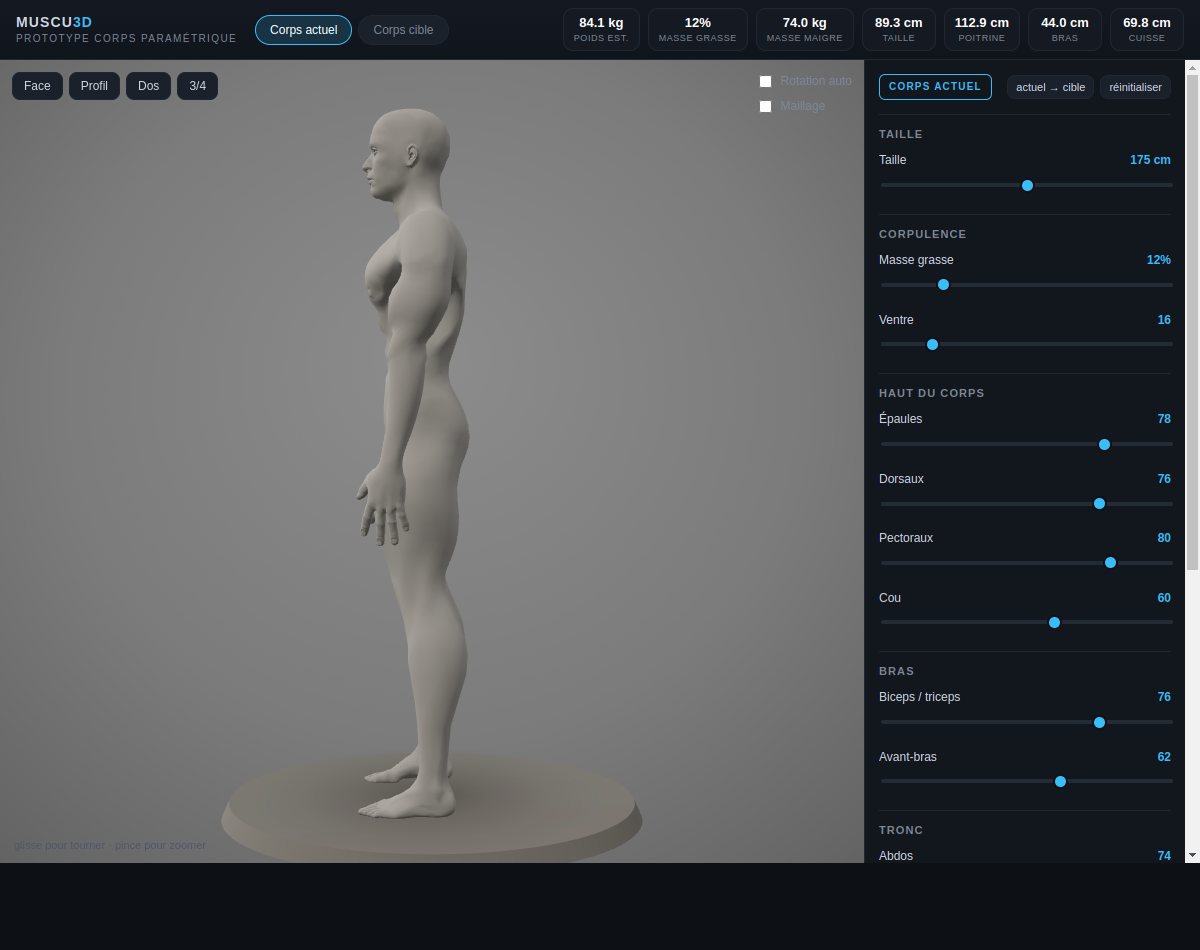
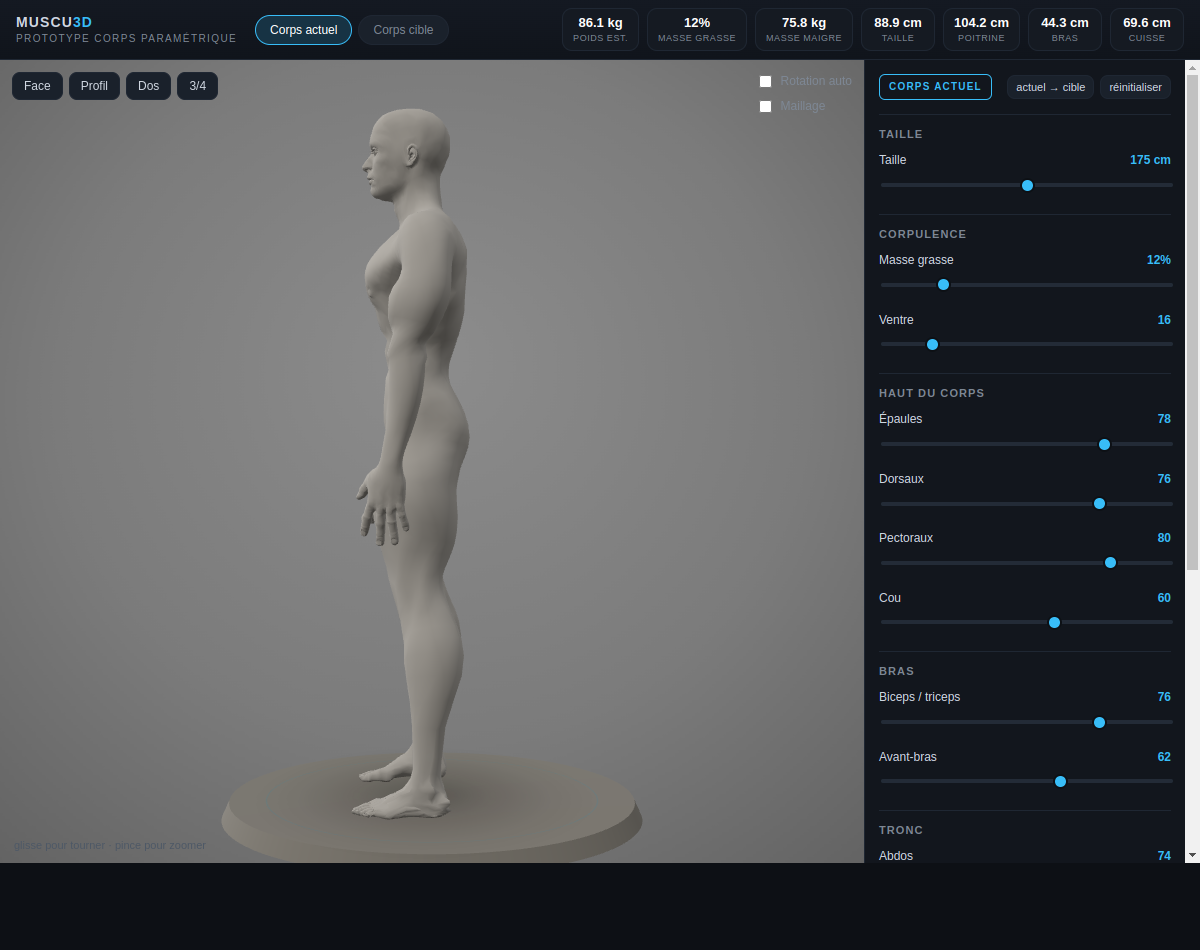
Corrige les aisselles dechirees : partage de peau par poids d'os + lissage des plis

diff --git a/src/lib/base/pose.ts b/src/lib/base/pose.ts
@@ -51,6 +51,24 @@ function rotationBetween(a: THREE.Vector3, b: THREE.Vector3): THREE.Quaternion {
   return new THREE.Quaternion().setFromUnitVectors(a.clone().normalize(), b.clone().normalize())
 }
 
+/** Poids de peau gaussien d'un os (même convention que lib/body.ts). */
+function boneWeight(p: THREE.Vector3, a: THREE.Vector3, b: THREE.Vector3, sigma: number): number {
+  const abx = b.x - a.x
+  const aby = b.y - a.y
+  const abz = b.z - a.z
+  const len2 = abx * abx + aby * aby + abz * abz
+  let t = 0
+  if (len2 > 1e-12) {
+    t = ((p.x - a.x) * abx + (p.y - a.y) * aby + (p.z - a.z) * abz) / len2
+    t = Math.max(0, Math.min(1, t))
+  }
+  const dx = p.x - (a.x + abx * t)
+  const dy = p.y - (a.y + aby * t)
+  const dz = p.z - (a.z + abz * t)
+  const d = Math.sqrt(dx * dx + dy * dy + dz * dz) / sigma
+  return Math.exp(-d * d)
+}
+
 /** Applique une rotation autour d'un pivot à des positions brutes. */
 function rotatePoints(positions: Float32Array, q: THREE.Quaternion, pivot: THREE.Vector3, weightOf: (i: number) => number) {
   const v = new THREE.Vector3()
@@ -107,7 +125,6 @@ function solvePose(positions: Float32Array, jointsIn: Record<string, THREE.Vecto
   if (strength <= 0) return joints
 
   const src = new Float32Array(positions)
-  const sideSign = (side: 'l' | 'r') => (side === 'l' ? 1 : -1)
 
   /**
    * Les cibles MakeHuman déplacent les sommets AVANT la pose : l'axe du bras
@@ -134,6 +151,24 @@ function solvePose(positions: Float32Array, jointsIn: Record<string, THREE.Vecto
     }
     return new THREE.Vector3(src[bi], src[bi + 1], src[bi + 2])
   }
+
+  const sideSign = (side: 'l' | 'r') => (side === 'l' ? 1 : -1)
+  // poids de transition (aisselle, entre-jambes) : ces sommets sont
+  // comprimés par la déformation, on les lissera à la fin
+  const transition = new Float32Array(positions.length / 3)
+
+  /**
+   * Os du torse (repères pris sur la géométrie morphée) : ils servent à
+   * partager la peau entre le bras et le tronc. Sans ce partage, l'aisselle
+   * se déchire : les sommets du bras partaient à 100 % avec le bras pendant
+   * que ceux du torse restaient en place.
+   */
+  const spine1 = nearestOf('spine-1')
+  const spine2 = nearestOf('spine-2')
+  const spine3 = nearestOf('spine-3')
+  const spine4 = nearestOf('spine-4')
+  const pelvisJ = nearestOf('pelvis')
+  const neckJ = nearestOf('neck')
 
   for (const side of ['l', 'r'] as const) {
     const s = sideSign(side)
@@ -167,6 +202,23 @@ function solvePose(positions: Float32Array, jointsIn: Record<string, THREE.Vecto
     }
     const pathRest = makePath([shoulder, elbow0, hand0])
     const pathTarget = makePath([shoulder, elbow2, hand2])
+
+    // Os : bras d'un côté, torse de l'autre. Le poids d'un sommet pour le bras
+    // est la part du bras dans le total (bras + torse) : l'aisselle, qui est
+    // à égale distance des deux, est ainsi entraînée à moitié et ne se
+    // déchire plus.
+    const armBones: Array<[THREE.Vector3, THREE.Vector3, number]> = [
+      [shoulder, elbow0, 0.034],
+      [elbow0, hand0, 0.032],
+      [hand0, hand0.clone().addScaledVector(foreOut, 0.1), 0.028],
+    ]
+    const torsoBones: Array<[THREE.Vector3, THREE.Vector3, number]> = [
+      [spine1, neckJ, 0.085],
+      [spine2, spine1, 0.08],
+      [spine3, spine2, 0.08],
+      [spine4, spine3, 0.075],
+      [pelvisJ, spine4, 0.075],
+    ]
 
     /** Point sur la polyligne à l'abscisse curviligne s. */
     const pathPoint = (path: ReturnType<typeof makePath>, s: number) => {
@@ -243,6 +295,11 @@ function solvePose(positions: Float32Array, jointsIn: Record<string, THREE.Vecto
       const rp = pathPoint(pathRest, sc)
       const tp = pathPoint(pathTarget, sc)
       q.setFromUnitVectors(pathTangent(pathRest, sc), pathTangent(pathTarget, sc))
+      // partage de la peau : part du bras dans le total (bras + torse)
+      let wArm = 0
+      for (const [ba, bb, sg] of armBones) wArm += boneWeight(v, ba, bb, sg)
+      let wTorso = 0
+      for (const [ba, bb, sg] of torsoBones) wTorso += boneWeight(v, ba, bb, sg)
       let w: number
       if (pr.beyond) {
         // main : bloc rigide suivant le poignet. Le rayon doit couvrir les
@@ -250,9 +307,10 @@ function solvePose(positions: Float32Array, jointsIn: Record<string, THREE.Vecto
         // pose en A et le maillage se déchirait.
         w = (1 - smoothstep(0.15, 0.28, pr.distWrist)) * wStart
       } else {
-        w = (1 - smoothstep(0.07, 0.115, pr.dist)) * wStart
+        w = (wArm / Math.max(wArm + wTorso, 1e-6)) * wStart
       }
       w *= strength
+      if (w > 0.02 && w < 0.98) transition[i / 3] = Math.max(transition[i / 3], 1 - Math.abs(w - 0.5) * 2)
       if (w <= 0.002) continue
       off.copy(v).sub(rp).applyQuaternion(q)
       const nx = tp.x + off.x
@@ -342,10 +400,41 @@ function solvePose(positions: Float32Array, jointsIn: Record<string, THREE.Vecto
     // plante du pied reste à plat et pointe toujours vers l'avant.
     const hip = nearestOf(`${side}-upper-leg`)
     const ankleRest = nearestOf(`${side}-ankle`)
+    const knee0 = nearestOf(`${side}-knee`)
+    const toe0 = nearestOf(`${side}-foot-1`)
+    const otherSide = side === 'l' ? 'r' : 'l'
+    const otherHip = nearestOf(`${otherSide}-upper-leg`)
+    const otherKnee = nearestOf(`${otherSide}-knee`)
+    const otherAnkle = nearestOf(`${otherSide}-ankle`)
+    // os : la jambe d'un côté, le bassin + l'autre jambe de l'autre
+    const legBones: Array<[THREE.Vector3, THREE.Vector3, number]> = [
+      [hip, knee0, 0.055],
+      [knee0, ankleRest, 0.045],
+      [ankleRest, toe0, 0.035],
+    ]
+    const pelvisBones: Array<[THREE.Vector3, THREE.Vector3, number]> = [
+      [pelvisJ, spine4, 0.075],
+      [spine4, spine3, 0.075],
+      [otherHip, otherKnee, 0.055],
+      [otherKnee, otherAnkle, 0.045],
+    ]
     const legRest = ankleRest.clone().sub(hip).normalize()
     const q3 = rotationBetween(legRest, thighOut)
-    const wLeg = limbWeight(src, hip, legRest, 0.105, 0.17, -0.02, 0.07)
-    rotatePoints(positions, q3, hip, (i) => wLeg(i) * strength)
+    // même partage de peau que pour le bras : la cuisse appartient à la jambe,
+    // le bassin et l'autre jambe au tronc (sinon l'entre-jambes se déchire)
+    const wLeg = (i: number) => {
+      const p = new THREE.Vector3(src[i], src[i + 1], src[i + 2])
+      let wLegB = 0
+      for (const [ba, bb, sg] of legBones) wLegB += boneWeight(p, ba, bb, sg)
+      let wPelv = 0
+      for (const [ba, bb, sg] of pelvisBones) wPelv += boneWeight(p, ba, bb, sg)
+      return wLegB / Math.max(wLegB + wPelv, 1e-6)
+    }
+    rotatePoints(positions, q3, hip, (i) => {
+      const w = wLeg(i) * strength
+      if (w > 0.02 && w < 0.98) transition[i / 3] = Math.max(transition[i / 3], 1 - Math.abs(w - 0.5) * 2)
+      return w
+    })
 
     for (const key of [`${side}-knee`, `${side}-ankle`, `${side}-foot-1`, `${side}-foot-2`]) {
       if (!joints[key]) continue
@@ -363,6 +452,59 @@ function solvePose(positions: Float32Array, jointsIn: Record<string, THREE.Vecto
       for (const key of [`${side}-foot-1`, `${side}-foot-2`]) {
         if (!joints[key]) continue
         joints[key] = rotatePoint(joints[key], qYaw, ankle)
+      }
+    }
+  }
+
+  // Lissage des plis : l'aisselle et l'entre-jambes sont des zones où la
+  // peau est partagée entre deux membres ; la déformation y comprime les
+  // sommets et crée une fente sombre. On relaxe ces sommets uniquement
+  // (2 itérations, relaxation faible : au-delà, le maillage se déchire).
+  if (strength > 0) {
+    const { indices } = getBaseMesh()
+    const n = positions.length / 3
+    const isActive = new Uint8Array(n)
+    let count = 0
+    for (let i = 0; i < n; i++) {
+      if (transition[i] > 0.15) {
+        isActive[i] = 1
+        count++
+      }
+    }
+    if (count) {
+      for (let iter = 0; iter < 2; iter++) {
+        const copy = new Float32Array(positions)
+        const acc = new Float32Array(positions.length)
+        const cnt = new Uint16Array(n)
+        for (let t = 0; t < indices.length; t += 3) {
+          const a = indices[t]
+          const b = indices[t + 1]
+          const c = indices[t + 2]
+          // laplacien de a : (b + c - 2a)
+          if (isActive[a]) {
+            for (let k = 0; k < 3; k++) {
+              acc[a * 3 + k] += copy[b * 3 + k] + copy[c * 3 + k] - 2 * copy[a * 3 + k]
+            }
+            cnt[a]++
+          }
+          if (isActive[b]) {
+            for (let k = 0; k < 3; k++) {
+              acc[b * 3 + k] += copy[c * 3 + k] + copy[a * 3 + k] - 2 * copy[b * 3 + k]
+            }
+            cnt[b]++
+          }
+          if (isActive[c]) {
+            for (let k = 0; k < 3; k++) {
+              acc[c * 3 + k] += copy[a * 3 + k] + copy[b * 3 + k] - 2 * copy[c * 3 + k]
+            }
+            cnt[c]++
+          }
+        }
+        for (let i = 0; i < n; i++) {
+          if (!cnt[i]) continue
+          const w = 0.35 * transition[i]
+          for (let k = 0; k < 3; k++) positions[i * 3 + k] += (acc[i * 3 + k] / cnt[i]) * w
+        }
       }
     }
   }

diff --git a/scripts/dev/dbg-baseedge.ts b/scripts/dev/dbg-baseedge.ts
@@ -1,0 +1,12 @@
+import { getBaseMesh } from '../../src/lib/base/mesh.ts'
+const b = getBaseMesh()
+const idx = b.indices
+let mx = 0
+for (let t = 0; t < idx.length; t += 3) {
+  for (let k = 0; k < 3; k++) {
+    const a = idx[t+k], c = idx[t+((k+1)%3)]
+    const d = Math.hypot(b.positions[a*3]-b.positions[c*3], b.positions[a*3+1]-b.positions[c*3+1], b.positions[a*3+2]-b.positions[c*3+2])
+    if (d > mx) mx = d
+  }
+}
+console.log('base mesh : arête la plus longue', mx.toFixed(3), 'm')

diff --git a/scripts/dev/dbg-edge2.ts b/scripts/dev/dbg-edge2.ts
@@ -1,0 +1,8 @@
+import { getBaseMesh } from '../../src/lib/base/mesh.ts'
+import { posePositions } from '../../src/lib/base/pose.ts'
+import { getMasks } from '../../src/lib/body.ts'
+const b = getBaseMesh()
+const p = posePositions(b.positions, b.joints, 1).positions
+for (const i of [4779, 4761, 4758]) {
+  console.log('v', i, 'base', [b.positions[i*3],b.positions[i*3+1],b.positions[i*3+2]].map(v=>v.toFixed(3)).join(','), '->', [p[i*3],p[i*3+1],p[i*3+2]].map(v=>v.toFixed(3)).join(','))
+}

diff --git a/scripts/dev/dbg-edge3.ts b/scripts/dev/dbg-edge3.ts
@@ -1,0 +1,5 @@
+import { buildBodyGeometry, DEFAULT_PARAMS } from '../../src/lib/body.ts'
+const b = buildBodyGeometry(DEFAULT_PARAMS)
+for (const i of [4779, 4761, 4758]) {
+  console.log('v', i, 'final', [b.positions[i*3],b.positions[i*3+1],b.positions[i*3+2]].map(v=>v.toFixed(3)).join(','))
+}

diff --git a/AGENTS.md b/AGENTS.md
@@ -367,6 +367,18 @@ recalculés par **enveloppe convexe** de la tranche (le tri angulaire créait de
 zigzags) ; plan de coupe **recentré sur la géométrie réelle** du membre.
 
 Captures de validation : `docs/etat-2026-10-20/`.
+**Correctif de la session 2 bis — aisselles déchirées.** Le partage de la peau
+entre le bras et le torse était fait par une bande radiale (0,07 → 0,115 autour
+de l'axe du bras) : trop large, elle entrainait le torse avec le bras et
+déchirait l'aisselle (trous visibles, arêtes en dents de scie). Remplacé par un
+**vrai partage par poids de peau** (mêmes gaussiennes que `lib/body.ts` :
+os du bras d'un côté, os du thorax de l'autre, poids = part du bras dans le
+total). Même traitement pour les jambes (bassin + autre jambe côté tronc), sinon
+c'est l'entre-jambes qui se déchire. Enfin, un **lissage de relaxation** (2
+itérations, facteur 0,35) est appliqué aux seuls sommets de transition
+(aisselle, entre-jambes) : ces zones étaient comprimées par la déformation et
+formaient une fente sombre.
+
 
 ## 4. Bugs connus, causes identifiées
 
